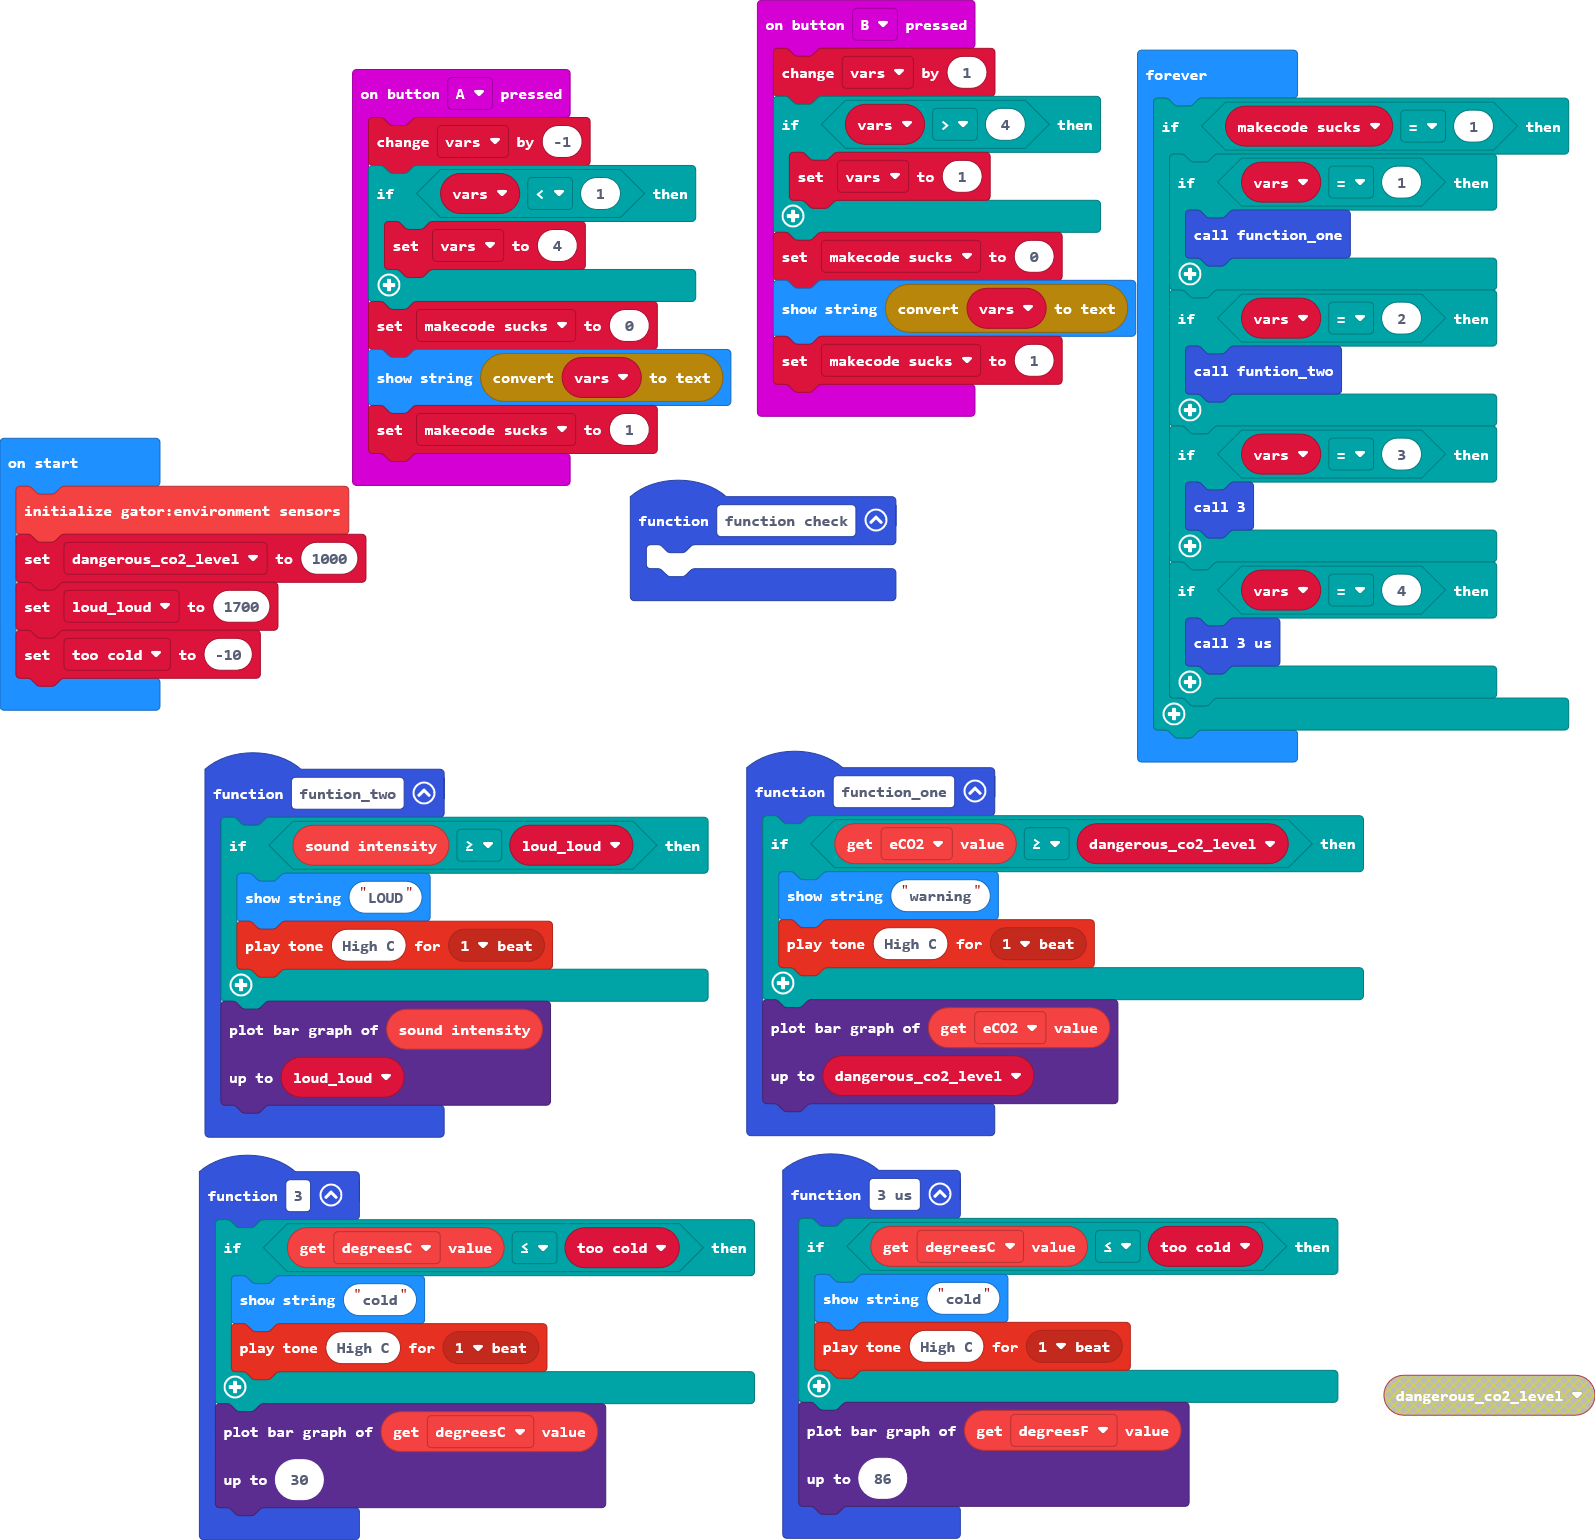
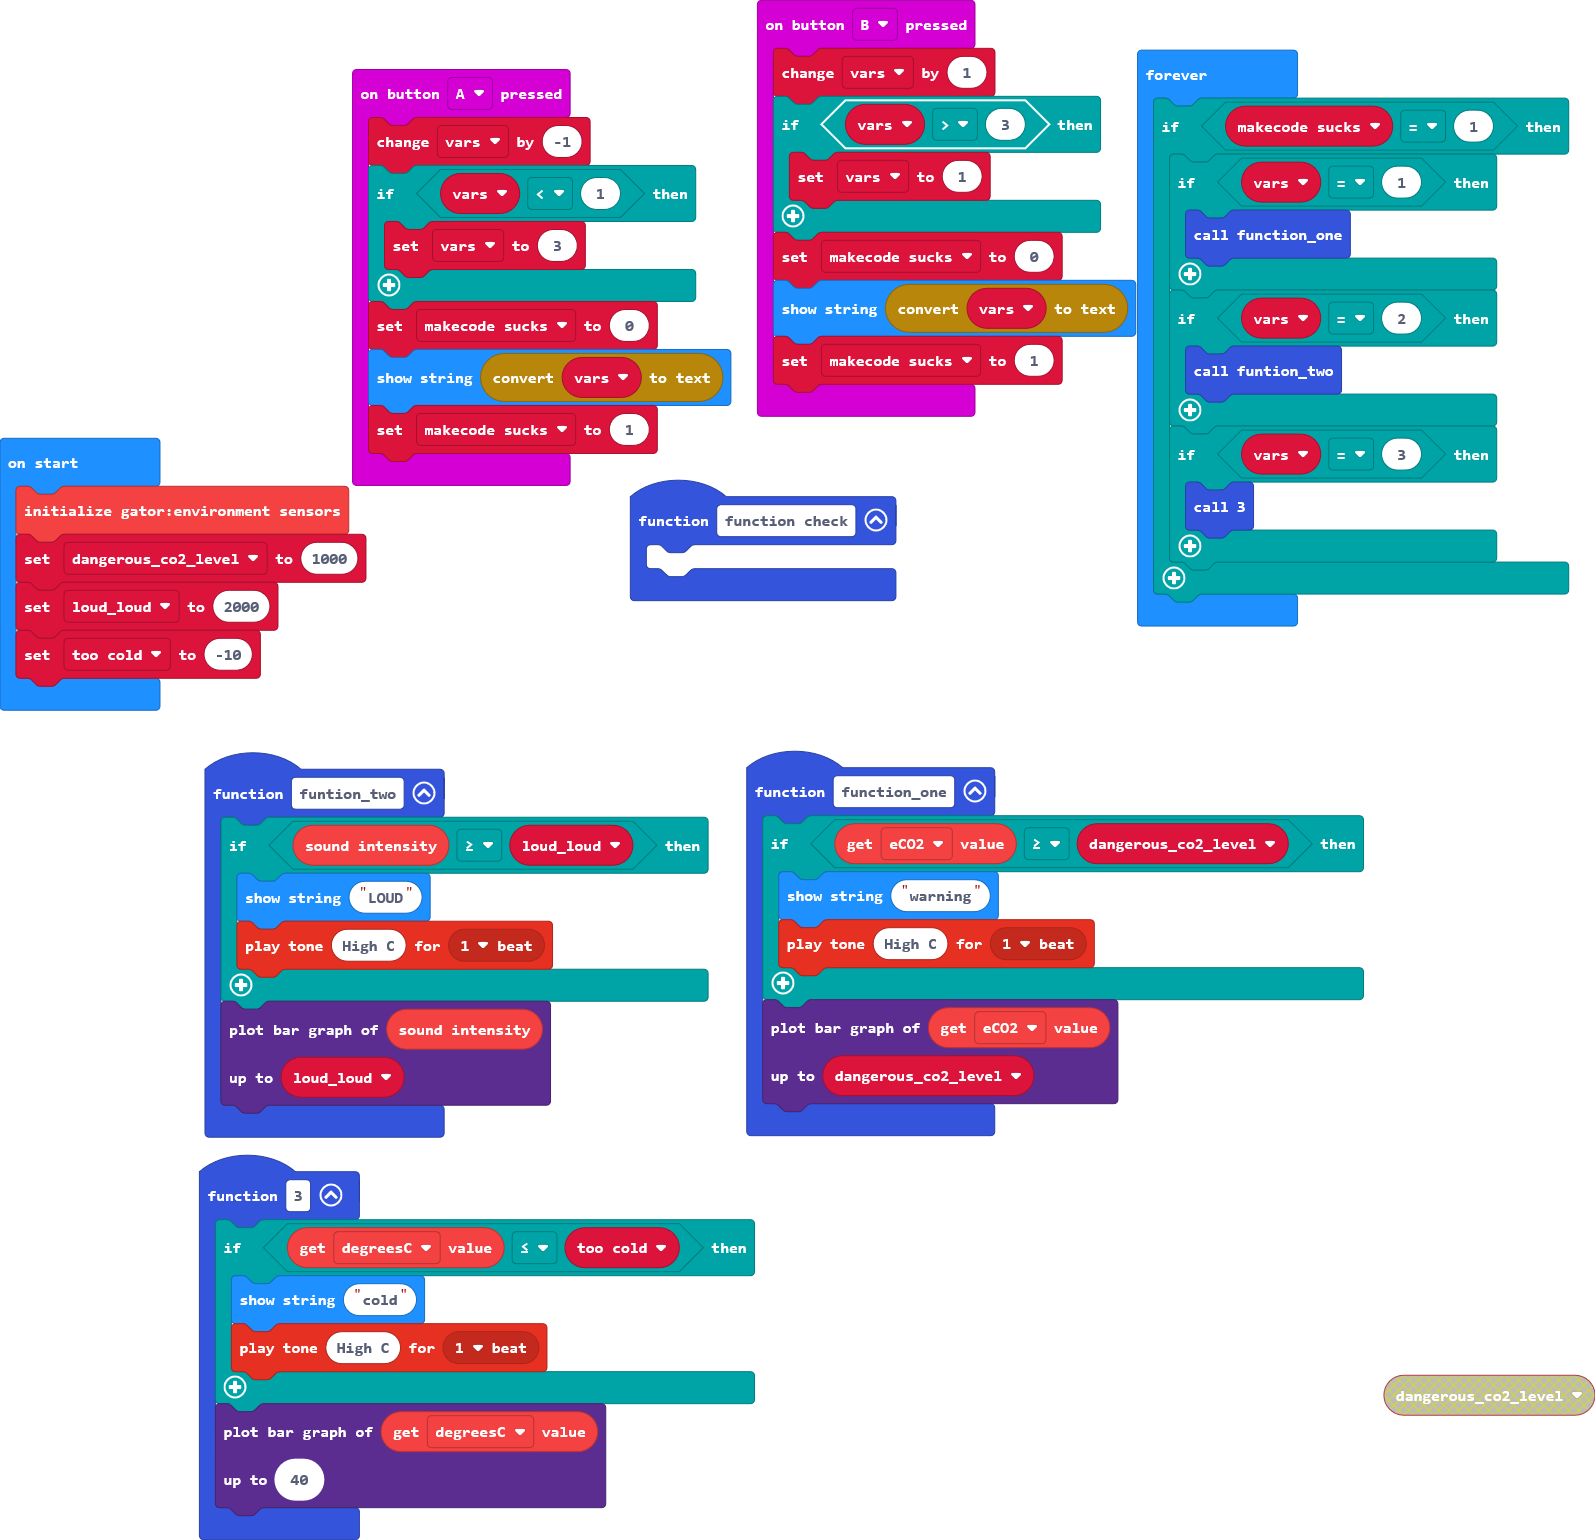
Update main.blocks, main.ts

Changed region(s): [[0.4915, 0.7481, 0.8602, 1.0], [0.7066, 0.3429, 0.9831, 0.4987]]

diff --git a/main.ts b/main.ts
@@ -1,7 +1,7 @@
 input.onButtonPressed(Button.A, function () {
     vars += -1
     if (vars < 1) {
-        vars = 4
+        vars = 3
     }
     makecode_sucks = 0
     basic.showString(convertToText(vars))
@@ -17,16 +17,6 @@ function funtion_two () {
     loud_loud
     )
 }
-function _3_us () {
-    if (gatorEnvironment.getMeasurement(measurementType.degreesC) <= too_cold) {
-        basic.showString("cold")
-        music.playTone(523, music.beat(BeatFraction.Whole))
-    }
-    led.plotBarGraph(
-    gatorEnvironment.getMeasurement(measurementType.degreesF),
-    86
-    )
-}
 function _3 () {
     if (gatorEnvironment.getMeasurement(measurementType.degreesC) <= too_cold) {
         basic.showString("cold")
@@ -34,12 +24,12 @@ function _3 () {
     }
     led.plotBarGraph(
     gatorEnvironment.getMeasurement(measurementType.degreesC),
-    30
+    40
     )
 }
 input.onButtonPressed(Button.B, function () {
     vars += 1
-    if (vars > 4) {
+    if (vars > 3) {
         vars = 1
     }
     makecode_sucks = 0
@@ -66,7 +56,7 @@ let loud_loud = 0
 let dangerous_co2_level = 0
 gatorEnvironment.beginEnvironment()
 dangerous_co2_level = 1000
-loud_loud = 1700
+loud_loud = 2000
 too_cold = -10
 basic.forever(function () {
     if (makecode_sucks == 1) {
@@ -78,9 +68,6 @@ basic.forever(function () {
         }
         if (vars == 3) {
             _3()
-        }
-        if (vars == 4) {
-            _3_us()
         }
     }
 })
